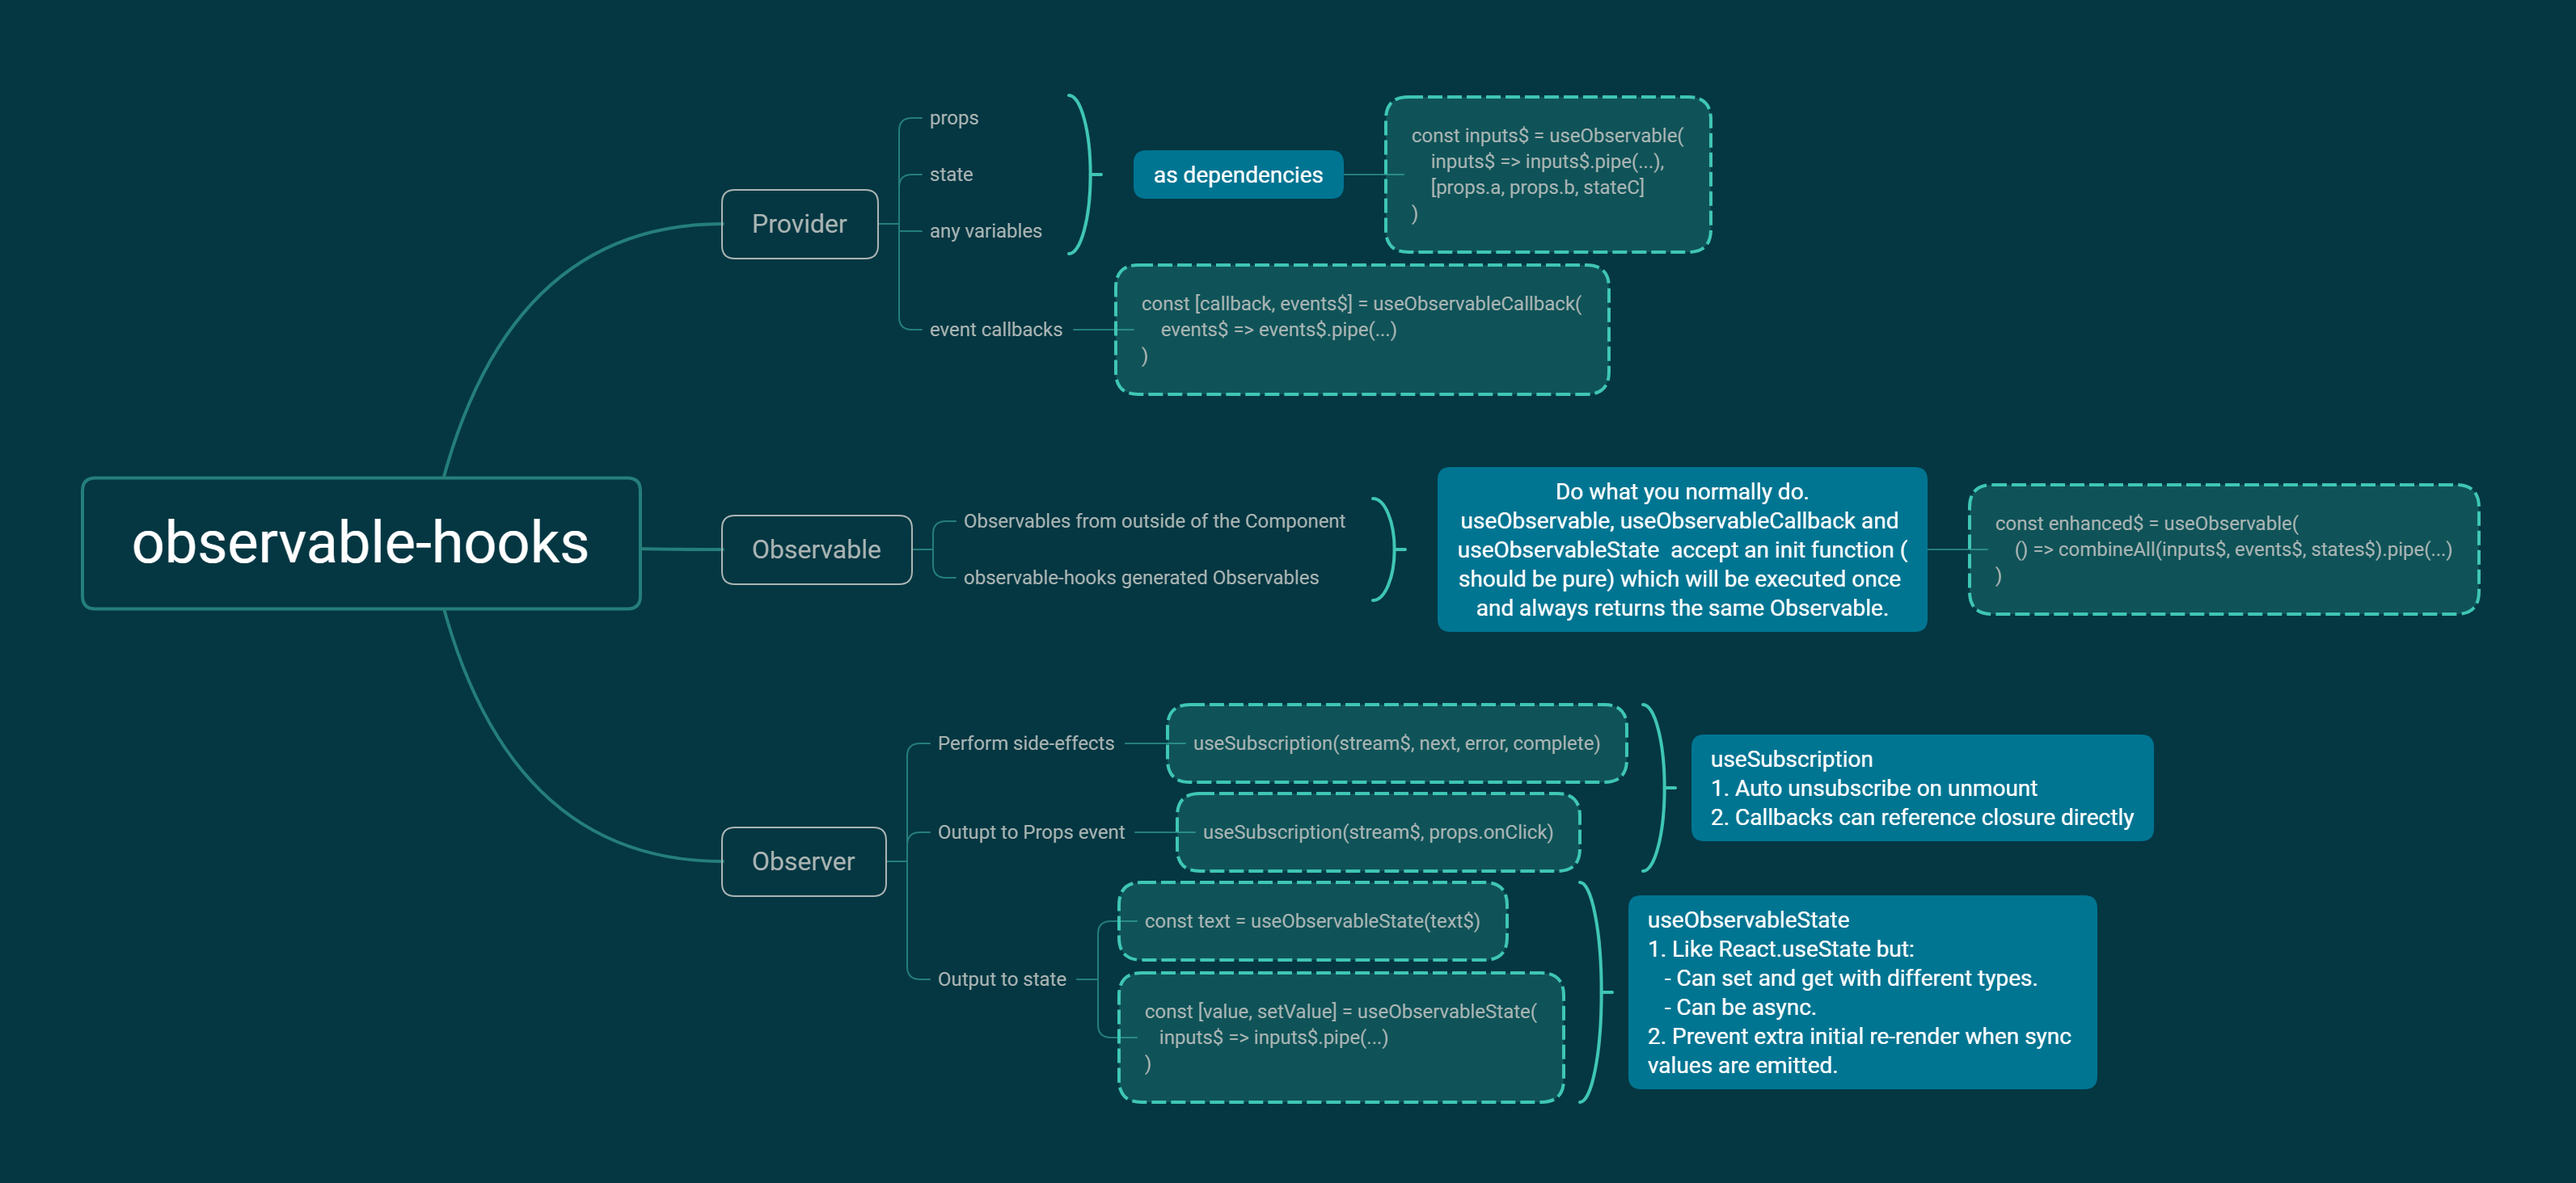
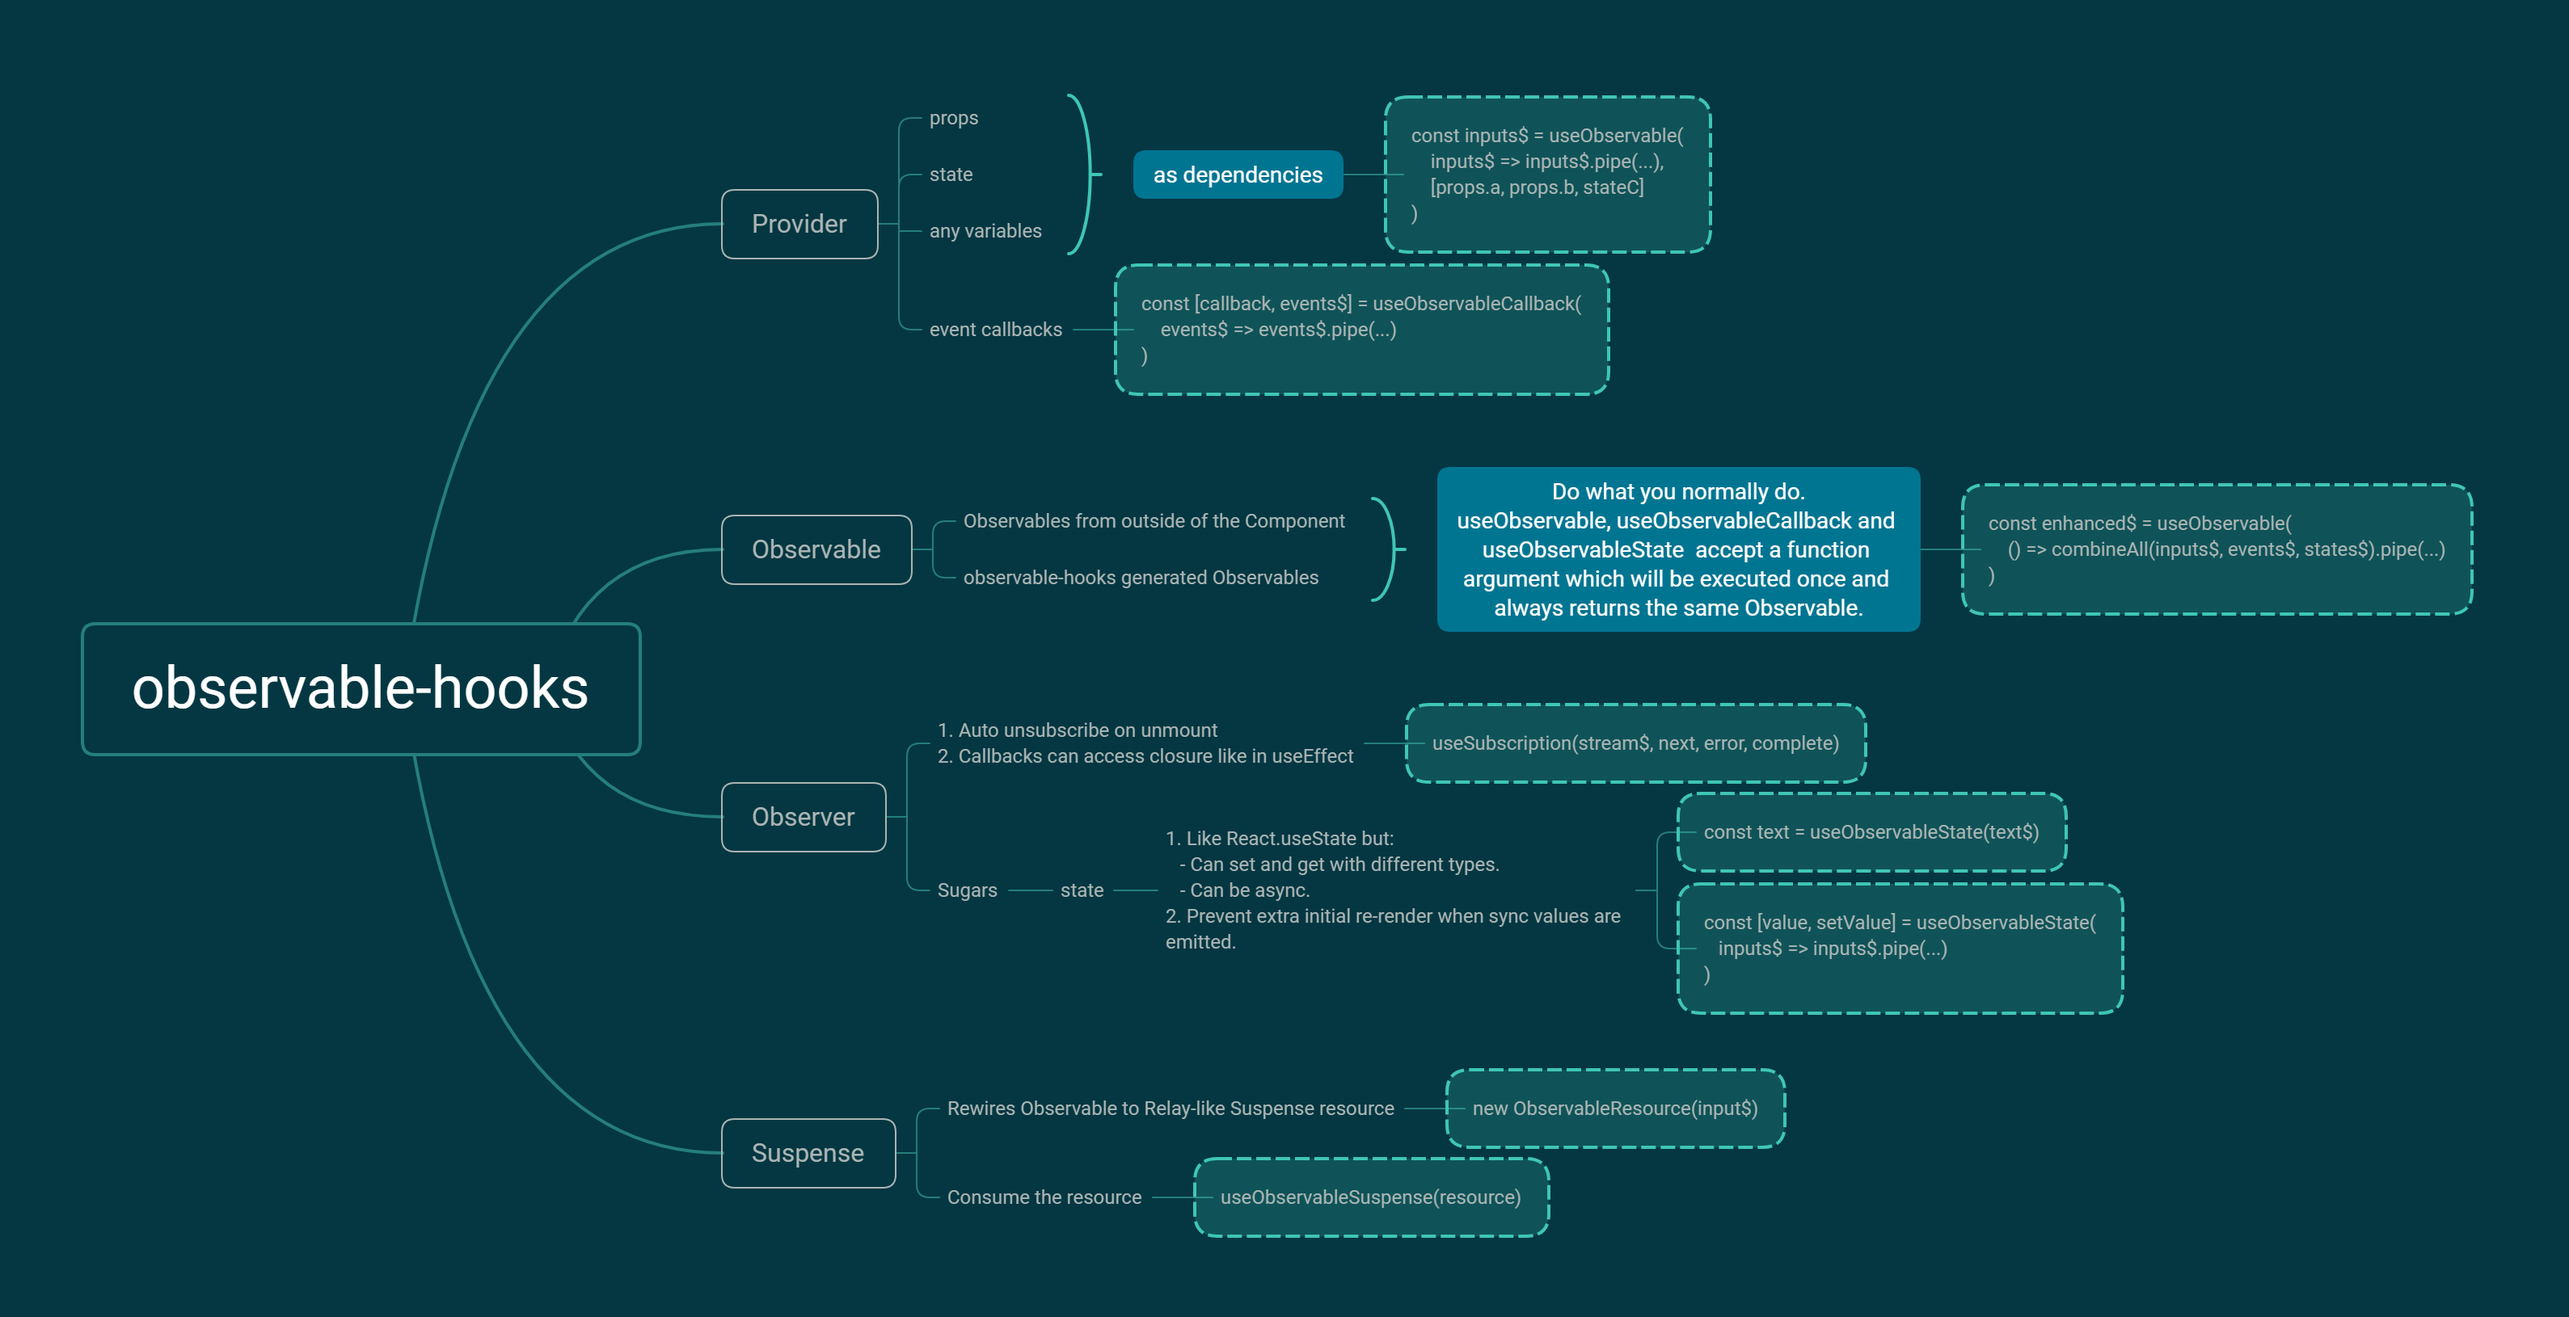
docs: add suspense

diff --git a/docs/.vuepress/config.js b/docs/.vuepress/config.js
@@ -12,7 +12,6 @@ module.exports = {
     // edit footer
     docsDir: 'docs',
     editLinks: true,
-    displayAllHeaders: true,
     algolia: {
       apiKey: '473fd2b63b7c903e3f950d4fef8351d1',
       indexName: 'observable-hooks'
@@ -33,7 +32,8 @@ module.exports = {
               sidebarDepth: 2, // optional, defaults to 1
               children: [
                 ['/examples/typeahead', 'Typeahead'],
-                ['/examples/pomodoro-timer', 'Pomodoro Timer']
+                ['/examples/pomodoro-timer', 'Pomodoro Timer'],
+                ['/examples/suspense', 'Render-as-You-Fetch (using Suspense)']
               ]
             }
           ],
@@ -42,7 +42,7 @@ module.exports = {
               title: 'API Reference', // required
               collapsable: false, // optional, defaults to true
               sidebarDepth: 2, // optional, defaults to 1
-              children: ['/api/', '/api/helpers']
+              children: ['/api/', '/api/suspense', '/api/helpers']
             }
           ],
           '/guide/': [
@@ -51,6 +51,12 @@ module.exports = {
               collapsable: false, // optional, defaults to true
               sidebarDepth: 2, // optional, defaults to 1
               children: ['/guide/', '/guide/motivation', '/guide/core-concepts']
+            },
+            {
+              title: 'Advanced', // required
+              collapsable: false, // optional, defaults to true
+              sidebarDepth: 2, // optional, defaults to 1
+              children: ['/guide/render-as-you-fetch-suspense']
             }
           ]
         },

diff --git a/packages/observable-hooks/src/use-observable-suspense.ts b/packages/observable-hooks/src/use-observable-suspense.ts
@@ -2,12 +2,18 @@ import { useSubscription } from './use-subscription'
 import { useForceUpdate } from './helpers'
 import { ObservableResource } from './observable-resource'
 
+/**
+ * Consume the Observable resource.
+ *
+ * Unlike Promise, Observable is a multiple push mechanism.
+ * This hook triggers extra re-rendering when Suspense should restart.
+ *
+ * @param resource Observable resource
+ */
 export function useObservableSuspense<TInput, TOutput extends TInput = TInput>(
   resource: ObservableResource<TInput, TOutput>
 ): TOutput {
   const forceUpdate = useForceUpdate()
-  // Unlike Promise, Observable is a multiple push mechanism.
-  // Only force update when Suspense needs to restart.
   useSubscription(resource.shouldUpdate$$, forceUpdate)
   return resource.read()
 }

diff --git a/packages/observable-hooks/src/observable-resource.ts b/packages/observable-hooks/src/observable-resource.ts
@@ -6,7 +6,7 @@ interface Handler<T = any> {
 }
 
 /**
- * Adapter that rewires Observable to Suspense resource.
+ * Rewires Observable to Relay-like Suspense resource.
  */
 export class ObservableResource<TInput, TOutput extends TInput = TInput> {
   /**

diff --git a/docs/guide/render-as-you-fetch-suspense.md b/docs/guide/render-as-you-fetch-suspense.md
@@ -4,19 +4,16 @@ Observable-hooks offers first-class React Suspense support!
 
 Also see the [suspense](/examples/suspense.html) example project.
 
-::: tip
-See [why](./render-as-you-fetch-observable.md) a stream of React Components could be a better choice for conditional rendering.
-:::
-
 ## Benefits of Observable as Data Source
 
 ### Multiple Push
 
 Since Observable implements multiple push protocol:
 
-| | SINGLE | MULTIPLE |
-| Pull | `Function` | `Iterator` |
-| Push | `Promise` | `Observable` |
+|      |   SINGLE   |   MULTIPLE   |
+| ---- | ---------- | ------------ |
+| Pull | `Function` |  `Iterator`  |
+| Push | `Promise`  | `Observable` |
 
 You can just keep pushing `next` values for new requests instead of replacing the resource.
 
@@ -35,7 +32,7 @@ Just `switchMap` and consume the resource as usual.
 
 ## Usage
 
-Just like the [Render-as-You-Fetch (using Suspense)](https://reactjs.org/docs/concurrent-mode-suspense.html#approach-3-render-as-you-fetch-using-suspense) in React Docs, we first define the data source, then use it directly in Components under Suspense Components.
+Just like the [Render-as-You-Fetch (using Suspense)](https://reactjs.org/docs/concurrent-mode-suspense.html#approach-3-render-as-you-fetch-using-suspense) in React Docs, we first define the data source, then use it directly in Components under Suspense context.
 
 ### Observable Resource
 
@@ -91,11 +88,17 @@ function ProfileTimeline() {
 }
 ```
 
-### Re-trigger Suspense
+### Stale-While-Revalidate Pattern
 
 By default `ObservableResource` will treat every value as "success" value, which means when new value is emitted, the Component will just re-render itself with the new value.
 
-`ObservableResource` also accepts an extra function that determine the if the value is of success state. If false then a Suspense is triggered.
+This is also known as Stale-While-Revalidate, a cache invalidation strategy popularized by [HTTP RFC 5861](https://tools.ietf.org/html/rfc5861).
+
+It first returns the data from cache (stale), then sends the fetch request (revalidate), and finally comes with the up-to-date data again.
+
+### Re-trigger Suspense
+
+To re-trigger Suspense `ObservableResource` also accepts an extra function that determines if the value is of success state. If `false` then a Suspense is triggered.
 
 ```javascript
 export const userResource = new ObservableResource(

diff --git a/docs/api/suspense.md b/docs/api/suspense.md
@@ -1,0 +1,64 @@
+# Suspense
+
+See [Render-as-You-Fetch (using Suspense)](../guide/render-as-you-fetch-suspense.md) for usage.
+
+## ObservableResource
+
+```typescript
+Class ObservableResource<TInput, TOutput>
+```
+
+Rewires Observable to Relay-like Suspense resource.
+
+**Type parameters:**
+
+- `TInput` Value type of the input Observable.
+- `TOutput` Resulted resouce value. Default TInput.
+
+**Constructors**
+
+```typescript
+new ObservableResource(
+  input$: Observable<TInput>,
+  isSuccess?: (value: TInput) => value is TOutput
+): ObservableResource
+```
+
+**Parameters:**
+
+Name | Type | Description
+------ | ------ | ------
+`input$` | `Observable<TInput>` | An Observable.
+`isSuccess` | `(value: TInput) => value is TOutput` | Optional function that determines if the value emitted from `input$` is of success state. If false a Suspense is triggered. Default all true.
+
+**Public Properties:**
+
+Name | Type | Description
+------ | ------ | ------
+`shouldUpdate$$` | `Subject<undefined>` | Emit when the Component needs extra rerendering.
+
+**Public Methods:**
+
+Name | Type | Description
+------ | ------ | ------
+`read` | `() => TOutput` | Return cached value on success state. Throw suspender on pending state. Throw error on error state.
+`destroy` | `() => void` | UnSubscribe input Observable.
+
+## useObservableSuspense
+
+```typescript
+useObservableSuspense<TInput, TOutput>(
+  resource: ObservableResource<TInput, TOutput>
+): TOutput
+```
+
+**Type parameters:**
+
+- `TInput` Value type of the input Observable.
+- `TOutput` Resulted resouce value. Default TInput.
+
+**Parameters:**
+
+Name | Type | Description
+------ | ------ | ------
+`resource` | `ObservableResource<TInput, TOutput>` | Observable resource.

diff --git a/docs/guide/motivation.md b/docs/guide/motivation.md
@@ -8,7 +8,7 @@ Nowadays developing stateful React Components is greatly simplified with hooks. 
 
 But hooks is just a mechanism to connect stateful logic to React Components. For complex logic, async specifically, we still need other libraries to reduce the complexity.
 
-There are libraries that focus only on a few specific aysnc scenarios, like [swr](https://github.com/zeit/swr) for remote data fetching. This is like comparing Redux Saga with Redux Observable. The knowledge you gain from learning how to use these libraries is not as transferable as RxJS, which is an all-round solution for async logic. You can use RxJS for almost any async scenario and still maintain good readability and testability.
+There are libraries that focus only on a few specific aysnc scenarios, like [swr](https://github.com/zeit/swr) for remote data fetching([See](./render-as-you-fetch-observable.md#stale-while-revalidate-pattern) how to achive the same `stale-while-revalidate` pattern in observable-hooks with Suspense). This is like comparing Redux Saga with Redux Observable. The knowledge you gain from learning how to use these libraries is not as transferable as RxJS, which is an all-round solution for async logic. You can use RxJS for almost any async scenario and still maintain good readability and testability.
 
 Yes there is a learning curve on RxJS but that is mostly a one-time conceptual thing. Don't be scared by the number of RxJS opertators. You most likely only need a few of them. Also see the [Operator Decision Tree](https://rxjs-dev.firebaseapp.com/operator-decision-tree).
 

diff --git a/README.md b/README.md
@@ -17,7 +17,8 @@ React hooks for RxJS Observables. Simple, flexible, testable and performant.
 - Seamless integration of React and RxJS.
   - Props and states to Observables.
   - Observables to states and props events.
-  - Conditional rendering with stream of React Components. (Or Suspense with [use-suspensible](https://github.com/crimx/use-suspensible))
+  - Conditional rendering with stream of React Components.
+  - Render-as-You-Fetch with React Suspense.
   - No `tap` hack needed. With Epic-like signature funciton is pure and testable.
 - Full-powered RxJS. Do whatever you want with Observables. No limitation nor compromise.
 - Fully tested. We believe in stability first. This project will always maintain a 100% coverage.

diff --git a/packages/observable-hooks/README.md b/packages/observable-hooks/README.md
@@ -17,7 +17,8 @@ React hooks for RxJS Observables. Simple, flexible, testable and performant.
 - Seamless integration of React and RxJS.
   - Props and states to Observables.
   - Observables to states and props events.
-  - Conditional rendering with stream of React Components. (Or Suspense with [use-suspensible](https://github.com/crimx/use-suspensible))
+  - Conditional rendering with stream of React Components.
+  - Render-as-You-Fetch with React Suspense.
   - No `tap` hack needed. With Epic-like signature funciton is pure and testable.
 - Full-powered RxJS. Do whatever you want with Observables. No limitation nor compromise.
 - Fully tested. We believe in stability first. This project will always maintain a 100% coverage.

diff --git a/docs/examples/README.md b/docs/examples/README.md
@@ -2,7 +2,7 @@
 
 ## Conditional rendering (Vanilla JavaScript)
 
-With observable-hooks you can have a stream of React elements. This is like React Suspense but armed with the incredible RxJS operators. If you want Suspense instead see [use-suspensible](https://github.com/crimx/use-suspensible).
+With observable-hooks you can have a stream of React elements. This is like React Suspense but armed with the incredible RxJS operators. If you want Suspense instead see [Render-as-You-Fetch (using Suspense)](../guide/render-as-you-fetch-suspense.md).
 
 ```jsx
 import { from, of } from 'rxjs'

diff --git a/docs/README.md b/docs/README.md
@@ -7,7 +7,7 @@ actionText: Get Started →
 actionLink: /guide/
 features:
 - title: 💫Seamless Integration
-  details: Props, states and Observables can be nicely converted to each other with pure function. No `tap` hack needed.
+  details: Props, states and Observables can be nicely converted to each other with pure function. No `tap` hack needed. Supports Render-as-You-Fetch pattern with React Suspense.
 - title: ☯Full-powered RxJS
   details: Do whatever you want with Observables. No limitation nor compromise.
 - title: 🛡Fully tested
